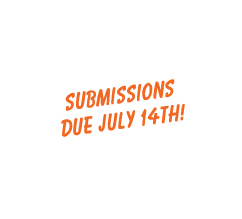
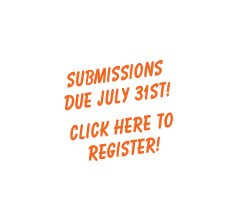
updates from josh

Changed region(s): [[0.2314, 0.274, 0.781, 0.7397]]

diff --git a/themes/pps/views/header.php b/themes/pps/views/header.php
@@ -14,7 +14,7 @@
 <meta property="og:title" content="<?php echo Kohana::config('pps.og_title'); ?>" />
 <meta property="og:type" content="website" />
 <?php if (!isset($og_description) OR !$og_description): ?>
-<?php $og_description = "How would you improve New York City's public realm? From April 11-30 share ideas about improving the physical environment of your block, neighborhood, or your entire city, we want to hear it!"; ?>
+<?php $og_description = "Calling all Designers: New Yorkers shared their ideas about making the city's public realm smarter, more beautiful, and accessible, and now it's your turn to respond! The By the City / For the City design competition will be open now through midnight on Thursday, July 14th!"; ?>
 <?php endif; ?>
 <meta property="og:description" content="<?php echo $og_description; ?>" />
 <meta property="og:url" content="<?php echo url::base() . url::current() ?>" /> 
@@ -35,7 +35,7 @@
 
 			<!-- searchbox -->
 			<div id="searchbox">
-           <span class='st_twitter_button' displayText='Tweet' st_url="http://ht.ly/4uAcb" st_title="I just shared my idea for improving NYC. What's yours? #bythecity"></span><span class='st_facebook_button' displayText='Facebook'></span><span class='st_email_button' displayText='Email'></span><span class='st_sharethis_button' displayText='ShareThis'></span>
+           <span class='st_twitter_button' displayText='Tweet' st_url="http://ht.ly/4uAcb" st_title="Calling all Designers: #ByTheCity / For the City design competition challenges YOU to address New Yorkers' top concerns: http://ht.ly/58GFp"></span><span class='st_facebook_button' displayText='Facebook'></span><span class='st_email_button' displayText='Email'></span><span class='st_sharethis_button' displayText='ShareThis'></span>
 				<!-- languages -->
 				<!--<?php echo $languages;?>-->
 				<!-- / languages -->

diff --git a/themes/pps/views/reports_view.php b/themes/pps/views/reports_view.php
@@ -141,7 +141,7 @@ if (isset($disp_custom_fields[$cat_id]) AND !empty($disp_custom_fields[$cat_id])
             <td><a href="" id="oloader_<?php echo $incident_id; ?>" class="rating_loading" ></a></td>
           </tr>
         </table>-->
-<span style="padding-right:10px;" class='st_twitter_vcount' displayText='Tweet' st_url="<?php echo urlencode(url::base() . url::current()) ?>" st_title="I just shared my idea for improving NYC. What's yours? #bythecity"> </span>
+<span style="padding-right:10px;" class='st_twitter_vcount' displayText='Tweet' st_url="<?php echo urlencode(url::base() . url::current()) ?>" st_title="The #ByTheCity / For the City design competition challenges YOU to address great ideas for improving #NYC"> </span>
 <iframe src="http://www.facebook.com/plugins/like.php?href=<?php echo urlencode(url::base() . url::current()) ?>&amp;layout=standard&amp;show_faces=true&amp;width=292&amp;action=like&amp;font&amp;colorscheme=light&amp;height=55" scrolling="no" frameborder="0" style="border:none; overflow:hidden; width:292px; height:55px;" allowTransparency="true"></iframe>
 			</div>
             <!-- end twitter/facebook --></div>

diff --git a/themes/pps/views/reports_submit.php b/themes/pps/views/reports_submit.php
@@ -355,7 +355,7 @@ foreach ($categories as $category)
 		
                 
               
-              <h5 style=" font-size:120%; font-weight:normal;"><strong>From now through May 8th, we're gathering up your ideas:</strong> from local parks and squares to citywide issues like transit and pollution, what needs a re-design? You can explore, discuss, and debate everyone's ideas right here.</h5>
+              <h5 style=" font-size:120%; font-weight:normal;"><strong>We're gathering up your ideas:</strong> from local parks and squares to citywide issues like transit and pollution, what needs a re-design? You can explore, discuss, and debate everyone's ideas right here.</h5>
               <h5 style=" font-size:120%; font-weight:normal;">Starting May 31st, we'll rally urban designers around the world to imagine the future of New York City based on your suggestions.</h5>
 
 <h5  style=" font-size:120%; font-weight:bold;">Here are three great examples:</h5>
